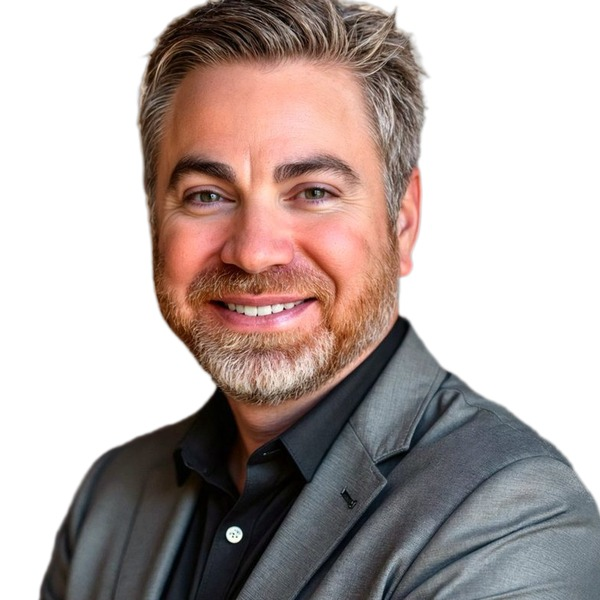
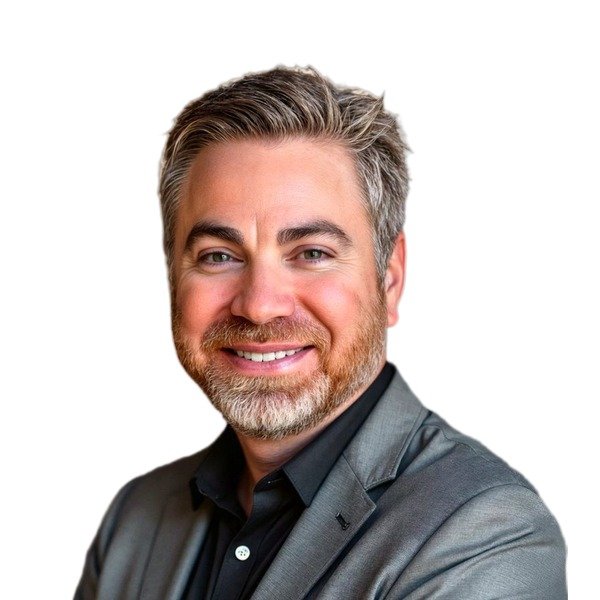
v7: headroom on the team headshots; roofing and HVAC slide wording
Claude-Session: https://claude.ai/code/session_012Li8LDVWvHRkvw2Mk1N3ga

diff --git a/src/components/v7/behavior/valley.js b/src/components/v7/behavior/valley.js
@@ -6,10 +6,10 @@ export function mountValley() {
   var P = { hvac: '/v2/img/hero-hvac.jpg', plumbing: '/v2/img/hero-plumbing.jpg', electrical: '/v2/img/hero-electrical.jpg', roofing: '/v2/img/hero-roofing.jpg', door: '/v2/img/band-door.jpg', nb: '/v2/img/band-neighborhood.jpg' };
   var MON = ['J','F','M','A','M','J','J','A','S','O','N','D'];
   var TRADES = {
-    'HVAC': { kw: ['ac repair phoenix','emergency ac repair near me','hvac company chandler','ac replacement cost mesa','heat pump install gilbert'], season: 'June to September', seasonP: 'Peak cooling season in the Valley. Local Services Ads and search budgets rise with the temperature and come down in October.', curve: [40,38,45,55,75,100,100,95,80,55,40,42], job: '$6,800', jobP: 'Illustrative average for a replacement in the Phoenix market. The CRM records the real number per job, and that sets next month’s spend.', photo: P.hvac, h2: 'When the AC dies in July, the first company to answer gets the job.', p: 'Every new lead gets a text and an email in under a minute, in your voice, even when your techs are on a roof in 112°. Your phone will still ring first and if nobody can pick up, the AI books an appointment.' },
+    'HVAC': { kw: ['ac repair phoenix','emergency ac repair near me','hvac company chandler','ac replacement cost mesa','heat pump install gilbert'], season: 'June to September', seasonP: 'Peak cooling season in the Valley. Local Services Ads and search budgets rise with the temperature and come down in October.', curve: [40,38,45,55,75,100,100,95,80,55,40,42], job: '$6,800', jobP: 'Illustrative average for a replacement in the Phoenix market. The CRM records the real number per job, and that sets next month’s spend.', photo: P.hvac, h2: 'When the AC dies in July, the first company to answer gets the job.', p: 'Every new lead gets a text and an email in under a minute, in your voice, even when your techs are on a roof in 112° degrees. Your phone will still ring first and if nobody can pick up, the AI books an appointment.' },
     'Plumbing': { kw: ['plumber near me','water heater replacement phoenix','slab leak repair chandler','drain cleaning scottsdale','emergency plumber gilbert'], season: 'All year, spikes in winter', seasonP: 'Water heaters fail when the first cold snap hits. Budgets hold steady with a December and January lift.', curve: [85,80,70,65,65,70,75,75,70,70,85,100], job: '$1,900', jobP: 'Illustrative average across repairs and water heater replacements. The CRM records the real number per job.', photo: P.plumbing, h2: 'A burst water line does not wait for a callback.', p: 'The homeowner is standing in water. The company that answers in less than a minute gets the job, and the review.' },
     'Electrical': { kw: ['electrician near me','ev charger installation phoenix','panel upgrade scottsdale','electrician mesa az','ceiling fan install gilbert'], season: 'Spring, plus EV demand all year', seasonP: 'Panel upgrades and EV chargers run steadily. Monsoon season brings surge and outage calls in July and August.', curve: [60,62,75,80,78,70,90,92,70,65,60,58], job: '$2,400', jobP: 'Illustrative average across panel upgrades, EV chargers and repairs.', photo: P.electrical, h2: 'The homeowner wants a charger installed before the car arrives Friday.', p: 'They searched, they asked ChatGPT, they called two companies. The one with the structured site and the 38-second reply gets the Friday slot.' },
-    'Roofing': { kw: ['roof repair phoenix','roofing company near me','monsoon roof damage mesa','tile roof replacement scottsdale','roof inspection chandler'], season: 'July to September, after monsoon', seasonP: 'Monsoon damage drives the busiest weeks of the year. Budgets rise in July and the review pipeline runs hot through September.', curve: [45,45,55,60,55,60,100,100,90,65,50,45], job: '$14,500', jobP: 'Illustrative average for a replacement. Repairs are smaller and more frequent.', photo: P.roofing, h2: 'After the monsoon, every roofer in the Valley is busy. The first one to answer wins.', p: 'Storm season is a race. Tracked numbers, an AI receptionist and a text in under a minute means the inspection is booked before the competitor hears the voicemail.' },
+    'Roofing': { kw: ['roof repair phoenix','roofing company near me','monsoon roof damage mesa','tile roof replacement scottsdale','roof inspection chandler'], season: 'July to September, after monsoon', seasonP: 'Monsoon damage drives the busiest weeks of the year. Budgets rise in July and the review pipeline runs hot through September.', curve: [45,45,55,60,55,60,100,100,90,65,50,45], job: '$14,500', jobP: 'Illustrative average for a replacement. Repairs are smaller and more frequent.', photo: P.roofing, h2: 'After the monsoon, every roofer in the Valley is busy. The first one to answer wins.', p: 'Storm season is a race. Tracked numbers, an AI receptionist, and a text in under a minute means the inspection is booked before the competitor hears the voicemail.' },
     'Garage door': { kw: ['garage door repair near me','garage door spring replacement phoenix','garage door opener install mesa','garage door company chandler'], season: 'All year', seasonP: 'Springs break on their own schedule. Spend stays level with a small lift around the holidays.', curve: [70,70,70,68,70,72,70,70,70,72,80,85], job: '$900', jobP: 'Illustrative average across spring, opener and panel jobs.', photo: P.door, h2: 'The car is stuck in the garage. They are calling right now.', p: 'Same-day is the whole sale. Answer first, book the slot, send the text with the tech’s name.' },
     'Pest control': { kw: ['pest control phoenix','scorpion control scottsdale','termite inspection mesa','pest control near me'], season: 'March to October', seasonP: 'Scorpion and termite season. Recurring plans mean the first job is worth a year of jobs.', curve: [40,45,70,85,95,100,100,95,85,70,45,40], job: '$480 per year', jobP: 'Illustrative annual value of a quarterly plan. Recurring revenue changes the math on every lead.', photo: P.nb, h2: 'One scorpion in the bathtub and they are searching tonight.', p: 'Recurring plans are won on the first reply. The AI books the inspection, the CRM runs the renewal.' },
     'Painting': { kw: ['house painters near me','exterior painting phoenix','cabinet painting scottsdale','interior painter gilbert'], season: 'October to April', seasonP: 'Exterior work runs in the cool months; interiors fill the summer.', curve: [95,90,85,70,55,40,35,35,45,80,95,100], job: '$3,800', jobP: 'Illustrative average for an exterior repaint.', photo: P.nb, h2: 'The paint is peeling and the listing photos are on Saturday.', p: 'A homeowner with a deadline calls three painters. The one who answers, quotes and books the walkthrough tonight gets the house, and the neighbor who asks for a card.' },

diff --git a/src/components/v7/valley.tsx b/src/components/v7/valley.tsx
@@ -23,7 +23,7 @@ export function Valley({ base = "" }: { base?: string }) {
 <div className="band photo-band" id="tradeband" style={{"--img":"url(/v2/img/hero-hvac.jpg)"} as CSSProperties}><div className="bg on" style={{backgroundImage:"url(/v2/img/hero-hvac.jpg)"} as CSSProperties}></div><div className="bg"></div><div className="dots" id="trade-dots"></div><div className="wrap in">
   <p className="kicker">Built for <span data-t="trade-lc">HVAC</span></p>
   <h2 className="photo-h2">When the AC dies in July, the first company to answer gets the job.</h2>
-  <p className="photo-p">Every new lead gets a text and an email in under a minute, in your voice, even when your techs are on a roof in 112°. Your phone will still ring first and if nobody can pick up, the AI books an appointment.</p>
+  <p className="photo-p">Every new lead gets a text and an email in under a minute, in your voice, even when your techs are on a roof in 112° degrees. Your phone will still ring first and if nobody can pick up, the AI books an appointment.</p>
 </div></div>
     </>
   );

diff --git a/src/components/v7/v7.css b/src/components/v7/v7.css
@@ -435,7 +435,7 @@
 .v7 .team .card details.bio[open] summary{display:none}
 .v7 .team .card details.bio p{margin:12px 0 0;color:var(--muted);font-size:.95rem;line-height:1.55}
 /* Team card with a real headshot; Brian's page: story, portrait and stats, the book, press. */
-.v7 .headshot.photo{border:0;object-fit:cover;object-position:top}
+.v7 .headshot.photo{border:0;object-fit:cover;object-position:center}
 .v7 .team .card .note{margin:12px 0 0}
 .v7 .story-side{display:grid;gap:22px;justify-items:stretch}
 .v7 .portrait{width:100%;max-width:420px;aspect-ratio:4/5;object-fit:cover;object-position:top;border-radius:18px;justify-self:center}
